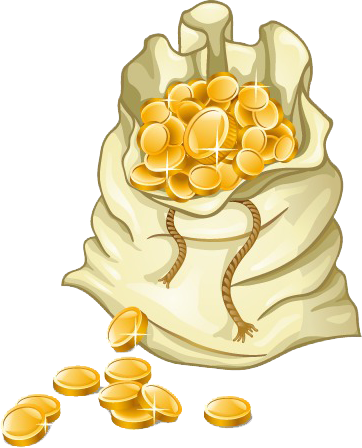
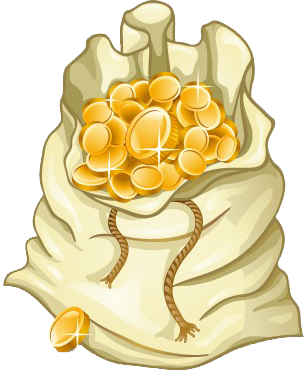
+ Add button túi vàng click vào sẽ cộng vàng kết thúc màn chơi

diff --git a/Classes/GamePlayLayer.cpp b/Classes/GamePlayLayer.cpp
@@ -196,7 +196,31 @@ void GamePlayLayer::createGoldBag(Vec2 deadPos)
 	goldBag->setScale(0.2f);
 	goldBag->setPosition(deadPos);
 
-	auto scaleto = ScaleTo::create(3.0f, 0.4f);
+	auto scaleto = ScaleTo::create(2.0f, 0.3f);
+	/*goldBag->runAction(scaleto);*/
+
+	auto button = CallFunc::create([=]
+	{
+		auto buttonHide = cocos2d::ui::Button::create("goldBag.png");
+		this->addChild(buttonHide, 2);
+		buttonHide->setScale(0.2f);
+		buttonHide->setPosition(deadPos);
+		buttonHide->addTouchEventListener(CC_CALLBACK_2(GamePlayLayer::testButton, this));
+	});
+
+	auto sqe = Sequence::create(scaleto, button, nullptr);
+	goldBag->runAction(sqe);
+}
+
+void GamePlayLayer::testButton(Ref* pSender, cocos2d::ui::Widget::TouchEventType eEventType)
+{
+	Size winSize = Director::getInstance()->getWinSize();
+	auto goldBag = Sprite::create("goldBag.png");
+	this->addChild(goldBag, 3);
+	goldBag->setScale(0.2f);
+	goldBag->setPosition(Vec2(winSize.width / 2, winSize.height / 2));
+
+	auto scaleto = ScaleTo::create(2.0f, 0.4f);
 	goldBag->runAction(scaleto);
 }
 

diff --git a/Classes/Bullet/BulletObject.cpp b/Classes/Bullet/BulletObject.cpp
@@ -20,7 +20,7 @@ bool BulletObject::init(float x, float y)
 	_sprBullet = Sprite::create("test_bullet.png");
 	addChild(_sprBullet);
 	//_sprBullet->setPosition(winSize.width * 0.25f, winSize.height * 0.25f);
-	PhysicsBody* _bulletPhysicBody = PhysicsBody::createBox(_sprBullet->getContentSize());
+	PhysicsBody* _bulletPhysicBody = PhysicsBody::createBox(_sprBullet->getContentSize() / 2);
 	_bulletPhysicBody->setContactTestBitmask(true);
 	_bulletPhysicBody->setDynamic(false);
 	_bulletPhysicBody->setGroup(-2);

diff --git a/Classes/GamePlayLayer.h b/Classes/GamePlayLayer.h
@@ -42,6 +42,7 @@ public:
 /*Thanh*/
 	bool onContactBegin(PhysicsContact &contact);
 	void createGoldBag(Vec2 deadPos);
+	void testButton(Ref* pSender, cocos2d::ui::Widget::TouchEventType eEventType);
 /*Khoa*/
 protected:
 	bool onTouchBegan(cocos2d::Touch*, cocos2d::Event*);
